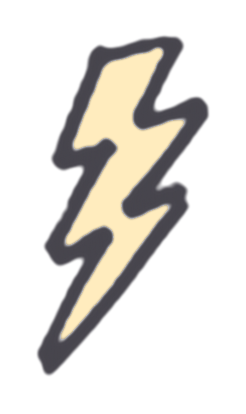
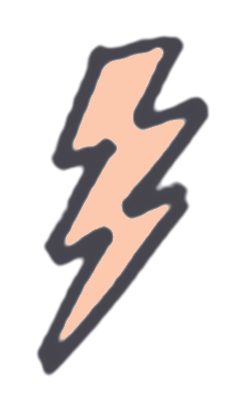
agency: smoother scroll (no snap, fixed-layer background, no live blur/per-frame text repaints), peach doodle fills, move gem to the gap beside the duo
Claude-Session: https://claude.ai/code/session_01NjjH1yufZksXXxytAyR7nM

Changed region(s): [[0.2561, 0.1159, 0.7398, 0.8116]]

diff --git a/app/agency.html b/app/agency.html
@@ -231,7 +231,7 @@ p{max-width:58ch}
 .hero .sticker,.sign,.duo .role,.mail{font-family:var(--f-body)!important;font-weight:700}
 
 /* ===== a living page ===== */
-html{scroll-snap-type:y proximity}
+html{scroll-snap-type:none}
 .scene{scroll-snap-align:start}
 .rotline{font-size:clamp(20px,2.2vw,28px)!important;font-family:var(--f-body);font-weight:800;color:var(--paper);margin:6px auto 16px!important;max-width:none!important}
 .rotbox{display:inline-block;height:1.5em;overflow:hidden;vertical-align:bottom;margin-inline-start:.35em}
@@ -406,7 +406,9 @@ html.ed .hero-photo .disc,html.ed .hero-photo .disc::before{animation:none}
 <style>
 /* ===== bigger orange labels, fresher background (soft aqua + mint + a little peach, shifting by scene) ===== */
 :root{--aA:.95;--aB:.85;--ax:6%;--ay:0%;--bx:94%;--by:40%}
-body{background:radial-gradient(130% 85% at var(--ax) var(--ay),rgba(244,168,136,calc(var(--aA)*.75)),transparent 62%),radial-gradient(125% 90% at var(--bx) var(--by),rgba(160,234,222,var(--aB)),transparent 52%),linear-gradient(180deg,#f4fcfa,#fff7f1) fixed!important}
+html{background:#f6fcfa!important}
+body{background:transparent!important}
+body::before{content:"";position:fixed;inset:0;z-index:-1;pointer-events:none;background:radial-gradient(130% 85% at var(--ax) var(--ay),rgba(244,168,136,calc(var(--aA)*.75)),transparent 62%),radial-gradient(125% 90% at var(--bx) var(--by),rgba(160,234,222,var(--aB)),transparent 52%),linear-gradient(180deg,#f4fcfa,#fff7f1);transform:translateZ(0)}
 header{background:rgba(246,252,250,.9)!important}
 .ribbon{background:rgba(255,255,255,.55)}
 .panel{background:linear-gradient(135deg,rgba(255,255,255,.93),rgba(244,252,249,.9))!important}
@@ -602,8 +604,7 @@ nav{gap:clamp(18px,2.2vw,34px)!important}
 header{display:none!important}
 nav{display:none!important}
 /* sparkling gem above the hero greeting */
-.hero h1{position:relative}
-.gem{position:absolute;left:9%;top:-.78em;width:1.35em;aspect-ratio:1;pointer-events:none;z-index:3;animation:gemFloat 5s ease-in-out infinite}
+.gem{position:absolute;left:-5%;bottom:-1%;font-size:clamp(96px,8.6vw,136px);width:1em;aspect-ratio:1;pointer-events:none;z-index:3;animation:gemFloat 5s ease-in-out infinite}
 .gem img{width:100%;height:auto;display:block;animation:gemGlow 2.8s ease-in-out infinite}
 .gem::after{content:"";position:absolute;inset:8% 6% 6%;background:linear-gradient(110deg,transparent 35%,rgba(255,255,255,.95) 50%,transparent 65%);background-size:250% 100%;-webkit-mask:url(brand/dd/gem.png) center/contain no-repeat;mask:url(brand/dd/gem.png) center/contain no-repeat;mix-blend-mode:soft-light;animation:gemShine 3.2s ease-in-out infinite}
 .gem i{position:absolute;font-style:normal;font-size:.28em;line-height:1;color:#fff;text-shadow:0 0 8px #7fe3d6,0 0 16px #ffb88f;animation:gemTw 2.4s ease-in-out infinite}
@@ -613,7 +614,12 @@ nav{display:none!important}
 @keyframes gemShine{0%{background-position:150% 0}60%,100%{background-position:-60% 0}}
 @keyframes gemTw{0%,100%{opacity:.15;transform:scale(.5) rotate(0)}50%{opacity:1;transform:scale(1.25) rotate(45deg)}}
 @media(prefers-reduced-motion:reduce){.gem,.gem img,.gem::after,.gem i{animation:none}}
-@media(max-width:900px){.gem{left:auto;right:6%;top:-.9em;width:.8em}}
+@media(max-width:900px){.gem{left:auto;right:4%;top:2%;font-size:72px}}
+/* smoother scrolling: no snap, no live blur layers, no per-frame text repaints */
+.scene h2,.sp .scene h2 .wi{animation:none!important;background-size:100% 100%!important}
+.hero-logo,.logo img,header .logo img{animation:logoFloat 4s ease-in-out infinite!important}
+.panel,.ribbon,.logos{-webkit-backdrop-filter:none!important;backdrop-filter:none!important}
+.scene{content-visibility:auto;contain-intrinsic-size:auto 800px}
 /* bigger hero + service doodles */
 .dd.d1{width:clamp(78px,7.5vw,116px)}
 .dd.d4{width:clamp(66px,6.6vw,100px)}
